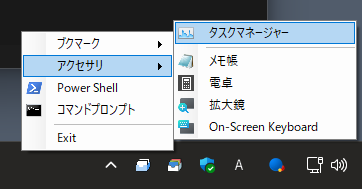
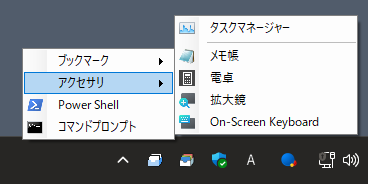
update.
Add system menu to left click.

diff --git a/sources/Launcher.cs b/sources/Launcher.cs
@@ -17,6 +17,7 @@ namespace Launcher
         public string Name { get; set; }
         public List<Software> Softwares { get; set; }
     }
+    
     public class Software
     {
         public bool Separator { get; set; }
@@ -26,13 +27,13 @@ namespace Launcher
         public string Arguments { get; set; }
         public Dictionary<string, object> Environments { get; set; }
     }
+    
     public class Program
     {
         private const uint INFO_ICON = 0x000000100;
         private const uint INFO_SMALLICON = 0x000000001;
         private const uint INFO_USEFILEATTRIBUTES = 0x000000010;
         private const uint FILE_ATTRIBUTE_DIRECTORY = 0x00000010;
-
         private static NotifyIcon notifyIcon;
         private static List<Category> launcherCategories;
         private static Icon trayIcon;
@@ -50,71 +51,12 @@ namespace Launcher
             ParseArguments(args);
             InitNotifyIcon();
             ImportConfig();
-            CreateMenuItems();
+            CreateDefaultItems();
 
             Application.Run();
         }
 
-        private static void ParseArguments(string[] args)
-        {
-            for (int i = 0; i < args.Length - 1; i++)
-            {
-                string flag = args[i];
-                string path = args[i + 1];
-
-                if (!File.Exists(path))
-                {
-                    continue;
-                }
-                else if (flag.Equals("-json", StringComparison.OrdinalIgnoreCase))
-                {
-                    jsonPath = path;
-                }
-                else if (flag.Equals("-icon", StringComparison.OrdinalIgnoreCase))
-                {
-                    trayIcon = new Icon(path);
-                }
-            }
-        }
-
-        private static void InitNotifyIcon()
-        {
-            notifyIcon = new NotifyIcon();
-            notifyIcon.Icon = trayIcon;
-            notifyIcon.Text = "Quick Launcher";
-            notifyIcon.Visible = true;
-            notifyIcon.ContextMenuStrip = new ContextMenuStrip();
-        }
-
-        private static void ImportConfig()
-        {
-            using (StreamReader reader = new StreamReader(jsonPath))
-            {
-                string jsonText = reader.ReadToEnd();
-                JavaScriptSerializer serializer = new JavaScriptSerializer();
-                launcherCategories = serializer.Deserialize<List<Category>>(jsonText);
-            }
-        }
-
-        private static void CreateMenuItems()
-        {
-            foreach (var category in launcherCategories)
-            {
-                if (!string.IsNullOrEmpty(category.Name))
-                {
-                    var categoryMenuItem = new ToolStripMenuItem(category.Name);
-                    notifyIcon.ContextMenuStrip.Items.Add(categoryMenuItem);
-                    AddMenuItems(categoryMenuItem.DropDownItems, category.Softwares);
-                }
-                else
-                {
-                    AddMenuItems(notifyIcon.ContextMenuStrip.Items, category.Softwares);
-                }
-            }
-
-            notifyIcon.ContextMenuStrip.Items.Add(new ToolStripSeparator());
-            notifyIcon.ContextMenuStrip.Items.Add("Exit", null, ExitMenuItem_Click);
-        }
+        // functions.
 
         private static void AddMenuItems(ToolStripItemCollection collection, List<Software> softwares)
         {
@@ -134,7 +76,7 @@ namespace Launcher
                     if (Directory.Exists(expandedPath))
                     {
                         menuItem.Click += (s, args) => OpenFolder(expandedPath);
-                        
+
                         Icon folderIcon = GetFolderIcon(expandedPath);
                         menuItem.Image = folderIcon.ToBitmap();
                     }
@@ -156,6 +98,55 @@ namespace Launcher
                         }
                     }
                     collection.Add(menuItem);
+                }
+            }
+        }
+
+        private static string GetConfigPath()
+        {
+            string exePath = Assembly.GetExecutingAssembly().Location;
+            string exeDir = Path.GetDirectoryName(exePath);
+            string filePath = Path.Combine(exeDir, "QuickLauncher.json");
+            return filePath;
+        }
+
+        private static void InitNotifyIcon()
+        {
+            notifyIcon = new NotifyIcon();
+            notifyIcon.Icon = trayIcon;
+            notifyIcon.Text = "Quick Launcher";
+            notifyIcon.Visible = true;
+            notifyIcon.MouseClick += ShowNotifyIconMenu;
+        }
+
+        private static void ImportConfig()
+        {
+            using (StreamReader reader = new StreamReader(jsonPath))
+            {
+                string jsonText = reader.ReadToEnd();
+                JavaScriptSerializer serializer = new JavaScriptSerializer();
+                launcherCategories = serializer.Deserialize<List<Category>>(jsonText);
+            }
+        }
+
+        private static void ParseArguments(string[] args)
+        {
+            for (int i = 0; i < args.Length - 1; i++)
+            {
+                string flag = args[i];
+                string path = args[i + 1];
+
+                if (!File.Exists(path))
+                {
+                    continue;
+                }
+                else if (flag.Equals("-json", StringComparison.OrdinalIgnoreCase))
+                {
+                    jsonPath = path;
+                }
+                else if (flag.Equals("-icon", StringComparison.OrdinalIgnoreCase))
+                {
+                    trayIcon = new Icon(path);
                 }
             }
         }
@@ -220,22 +211,60 @@ namespace Launcher
             }
         }
 
-        private static void ExitMenuItem_Click(object sender, EventArgs e)
+        private static void EditConfig(object sender, EventArgs e)
+        {
+            try
+            {
+                // JSONファイルをデフォルトのテキストエディタで開く
+                Process.Start(jsonPath);
+            }
+            catch (Exception ex)
+            {
+                MessageBox.Show(
+                    "Failed to open JSON file: " + ex.Message,
+                    "Error", MessageBoxButtons.OK, MessageBoxIcon.Error);
+            }
+        }
+
+        private static void ExitApp(object sender, EventArgs e)
         {
             notifyIcon.Visible = false;
             Application.Exit();
         }
 
-        // functions.
-
-        private static string GetConfigPath()
+        private static void ShowNotifyIconMenu(object sender, MouseEventArgs e)
         {
-            string exePath = Assembly.GetExecutingAssembly().Location;
-            string exeDir = Path.GetDirectoryName(exePath);
-            string filePath = Path.Combine(exeDir, "QuickLauncher.json");
-            return filePath;
+            if (e.Button == MouseButtons.Left)
+            {
+                notifyIcon.ContextMenuStrip = CreateDefaultItems();
+            }
+            else
+            {
+                notifyIcon.ContextMenuStrip = CreateMenuItems();
+            }
+
+            MethodInfo methodInfo = typeof(NotifyIcon).GetMethod(
+                "ShowContextMenu", BindingFlags.Instance | BindingFlags.NonPublic);
+            methodInfo.Invoke(notifyIcon, null);
         }
-        
+
+        private static void UpdateMenuItems(object sender, EventArgs e)
+        {
+            try
+            {
+                ImportConfig(); // JSONファイルを読み直す
+                CreateMenuItems(); // メニューアイテムを作成し直す
+            }
+            catch (Exception ex)
+            {
+                MessageBox.Show(
+                    "Failed to update menu items: " + ex.Message,
+                    "Error", MessageBoxButtons.OK, MessageBoxIcon.Error);
+            }
+        }
+
+        // structures.
+
         private static Icon GetSelfIcon()
         {
             Assembly assembly = Assembly.GetEntryAssembly();
@@ -255,14 +284,42 @@ namespace Launcher
                 ref info,
                 (uint)Marshal.SizeOf(info),
                 INFO_ICON | INFO_SMALLICON | INFO_USEFILEATTRIBUTES);
-            
+
             if (hImg != IntPtr.Zero)
                 return Icon.FromHandle(info.hIcon);
             else
                 return null;
         }
 
-        // structures
+        private static ContextMenuStrip CreateDefaultItems()
+        {
+            ContextMenuStrip menu = new ContextMenuStrip();
+            menu.Items.Add("Update", null, UpdateMenuItems);
+            menu.Items.Add("Edit", null, EditConfig);
+            menu.Items.Add(new ToolStripSeparator());
+            menu.Items.Add("Exit", null, ExitApp);
+            return menu;
+        }
+
+        private static ContextMenuStrip CreateMenuItems()
+        {
+            ContextMenuStrip menu = new ContextMenuStrip();
+
+            foreach (var category in launcherCategories)
+            {
+                if (!string.IsNullOrEmpty(category.Name))
+                {
+                    var categoryMenuItem = new ToolStripMenuItem(category.Name);
+                    menu.Items.Add(categoryMenuItem);
+                    AddMenuItems(categoryMenuItem.DropDownItems, category.Softwares);
+                }
+                else
+                {
+                    AddMenuItems(menu.Items, category.Softwares);
+                }
+            }
+            return menu;
+        }
 
         [StructLayout(LayoutKind.Sequential)]
         private struct SHFILEINFO
